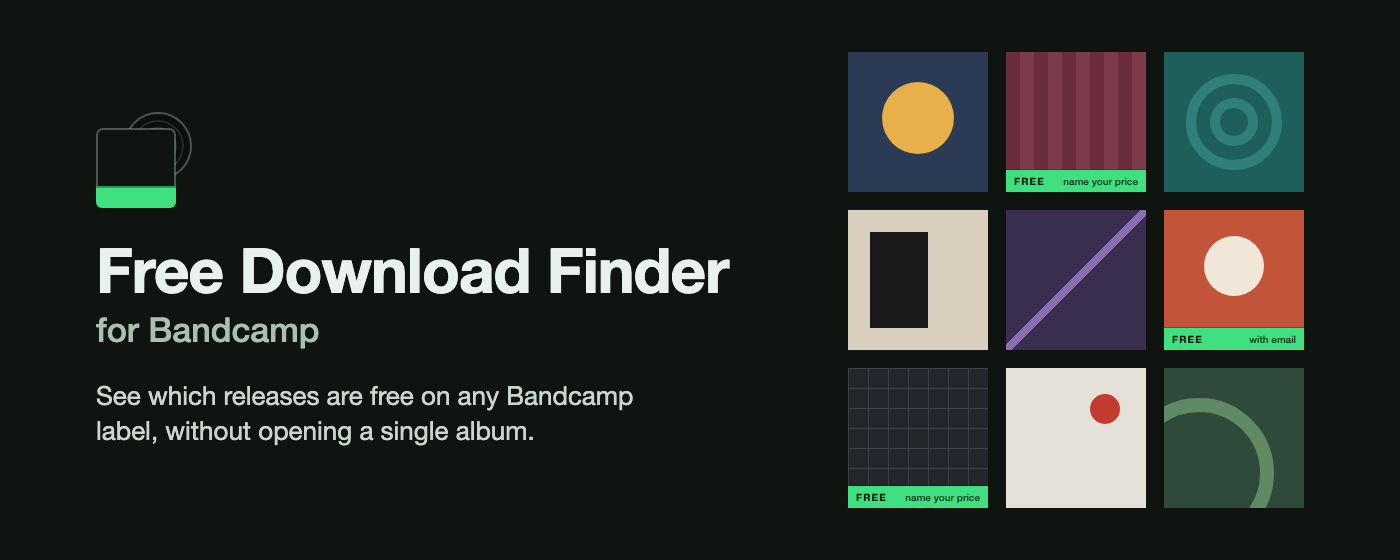
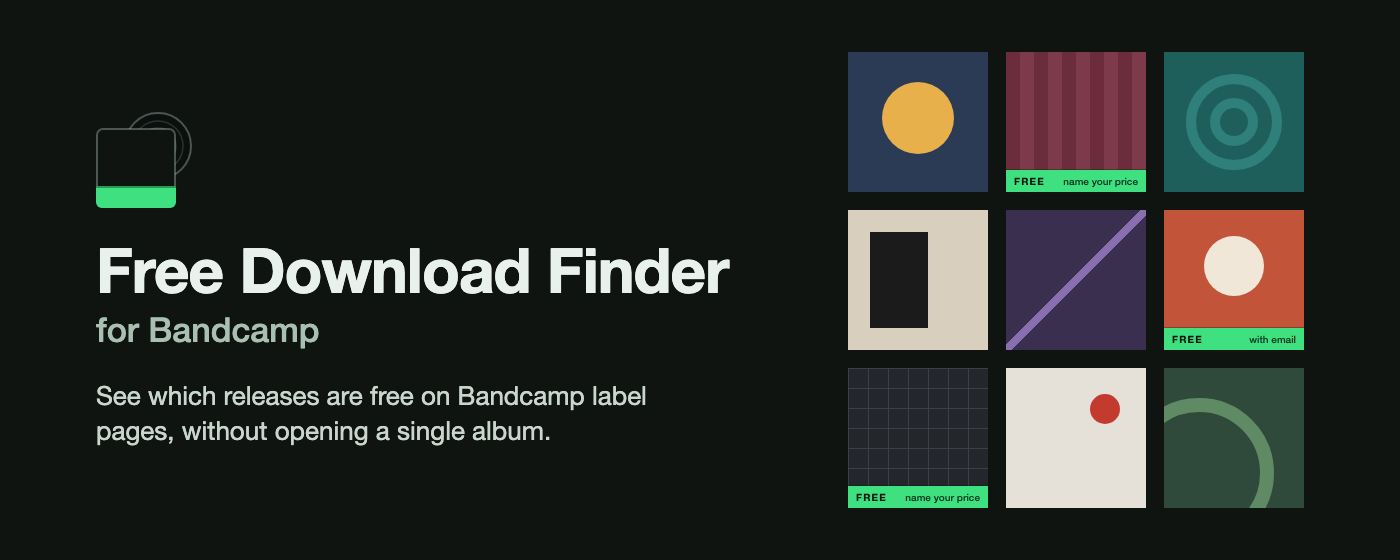
Make the listing's privacy text exact, and drop "any label"
- PRIVATE paragraph and storage justification now say what is read
  (the Bandcamp pages you open and the release pages checked) and what
  is kept (answers listed by release address, 24 hours, on the
  computer, sent nowhere). The store treats inexact privacy
  declarations as a policy violation.
- "any Bandcamp label" becomes "Bandcamp label pages" in the
  description and on the marquee: labels on their own domain aren't
  covered.

Changed region(s): [[0.0614, 0.7589, 0.3993, 0.7893], [0.3071, 0.6982, 0.4607, 0.7286]]

diff --git a/store/promo/src/marquee.html b/store/promo/src/marquee.html
@@ -22,7 +22,7 @@ p{margin:30px 0 0;max-width:600px;color:#c9d6cd;font-size:26px;line-height:1.35}
 .c8{background:#e5e1d8}.c8::after{content:"";position:absolute;right:26px;top:26px;width:30px;height:30px;border-radius:50%;background:#c23b2e}
 .c9{background:#2f4a3a}.c9::after{content:"";position:absolute;left:-40px;bottom:-40px;width:150px;height:150px;border-radius:50%;border:14px solid #5f8a63;box-sizing:border-box}
 </style>
-<div class="copy"><svg class="mark" viewBox="16 16 96 96" aria-hidden="true"><circle cx="78" cy="50" r="33" fill="#0b0f0d" stroke="#a9bfb1" stroke-opacity="0.4" stroke-width="2"/><circle cx="78" cy="50" r="25" fill="none" stroke="#2a342e" stroke-width="1.5"/><circle cx="78" cy="50" r="18" fill="none" stroke="#2a342e" stroke-width="1.5"/><rect x="17" y="33" width="78" height="78" rx="6" fill="#0f1411" stroke="#a9bfb1" stroke-opacity="0.4" stroke-width="2"/><path d="M16 90 H96 V106 A6 6 0 0 1 90 112 H22 A6 6 0 0 1 16 106 Z" fill="#3ee07f"/><path d="M16 91 H96" stroke="#04150b" stroke-opacity="0.35" stroke-width="2"/></svg><h1>Free Download Finder<span>for Bandcamp</span></h1><p>See which releases are free on any Bandcamp label, without opening a single album.</p></div>
+<div class="copy"><svg class="mark" viewBox="16 16 96 96" aria-hidden="true"><circle cx="78" cy="50" r="33" fill="#0b0f0d" stroke="#a9bfb1" stroke-opacity="0.4" stroke-width="2"/><circle cx="78" cy="50" r="25" fill="none" stroke="#2a342e" stroke-width="1.5"/><circle cx="78" cy="50" r="18" fill="none" stroke="#2a342e" stroke-width="1.5"/><rect x="17" y="33" width="78" height="78" rx="6" fill="#0f1411" stroke="#a9bfb1" stroke-opacity="0.4" stroke-width="2"/><path d="M16 90 H96 V106 A6 6 0 0 1 90 112 H22 A6 6 0 0 1 16 106 Z" fill="#3ee07f"/><path d="M16 91 H96" stroke="#04150b" stroke-opacity="0.35" stroke-width="2"/></svg><h1>Free Download Finder<span>for Bandcamp</span></h1><p>See which releases are free on Bandcamp label pages, without opening a single album.</p></div>
 <div class="grid">
 <div class="c c1"></div><div class="c c2"><div class="band"><b>FREE</b><span>name your price</span></div></div><div class="c c3"></div>
 <div class="c c4"></div><div class="c c5"></div><div class="c c6"><div class="band"><b>FREE</b><span>with email</span></div></div>

diff --git a/store/listing.md b/store/listing.md
@@ -8,7 +8,7 @@ are plain text: copy the text inside the code blocks as it is.
 **Description**
 
 ```
-See which releases you can download for free on any Bandcamp label or artist page, without opening each album.
+See which releases you can download for free on Bandcamp label and artist pages, without opening each album.
 
 Bandcamp only shows a release's price on its own page. Free Download Finder for Bandcamp checks the releases of the label or artist page you're on, in the background, and marks the free ones right on the grid.
 
@@ -22,7 +22,7 @@ LIGHT ON BANDCAMP
 Labels of up to 100 releases are checked in full. On bigger ones, the extension checks the covers you look at, and "Check the other N" does the rest at a pace Bandcamp accepts. Answers are kept for 24 hours, so a label you come back to costs nothing. Album, track and fan pages are left alone.
 
 PRIVATE
-No account, no analytics, no tracking. The extension only reads Bandcamp release pages (without your cookies) and keeps its answers on your computer.
+No account, no analytics, no tracking. The extension reads the Bandcamp pages you open and the release pages it checks (without your cookies). It keeps its answers on your computer for 24 hours, listed by release address, and sends nothing anywhere else.
 
 Works on *.bandcamp.com label and artist pages; labels on their own domain aren't covered.
 
@@ -64,7 +64,7 @@ Marks the free and name-your-price releases on Bandcamp label and artist pages, 
 **Permission justification: storage**
 
 ```
-Caches, for 24 hours, whether each release is free, so revisiting a label doesn't fetch its release pages again. Nothing else is stored, and nothing leaves the user's computer.
+Caches, for 24 hours, whether each release is free, keyed by the release's address, so revisiting a label doesn't fetch its release pages again. Nothing else is stored, and nothing leaves the user's computer.
 ```
 
 **Permission justification: host permission (*://*.bandcamp.com/*)**
